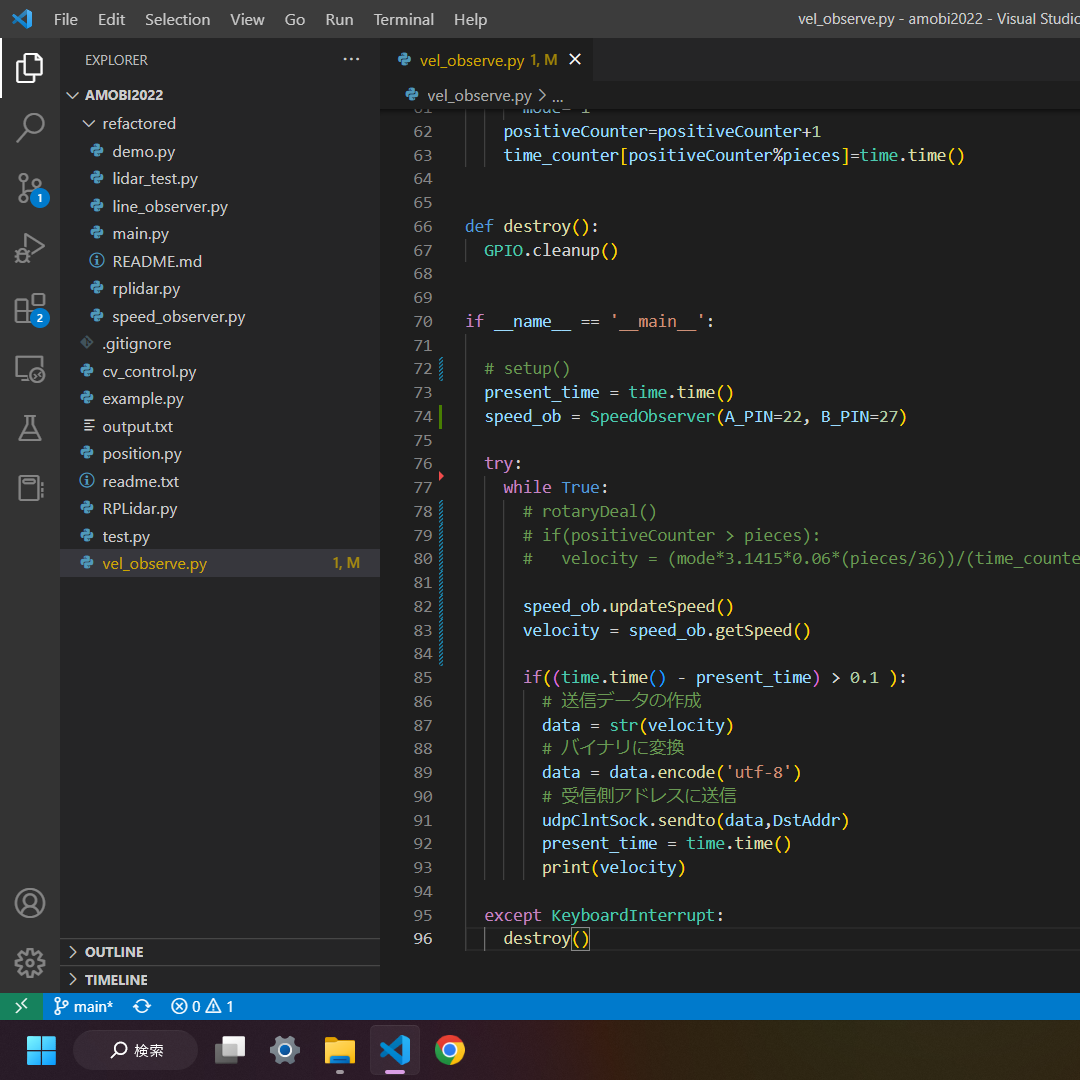
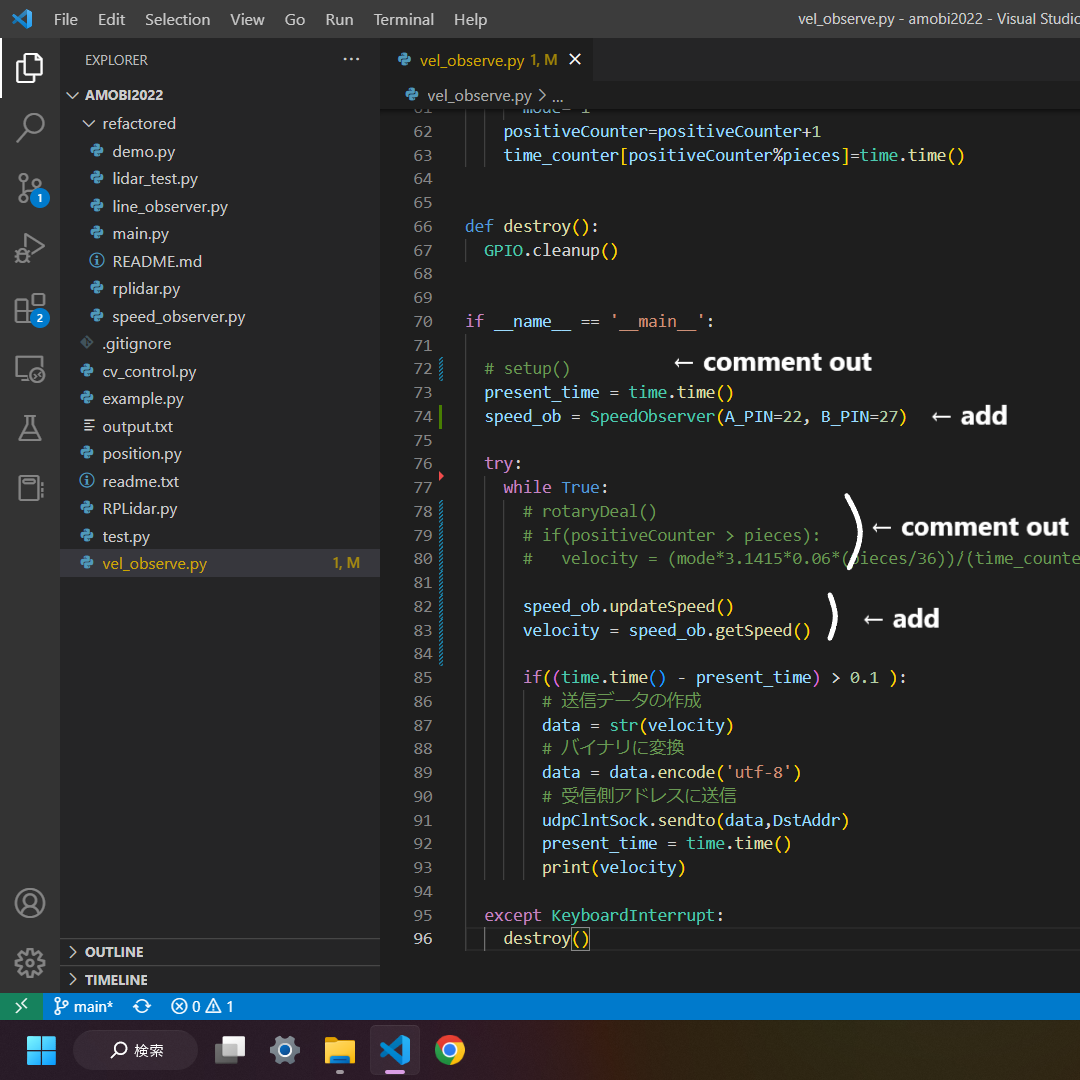
update readme

diff --git a/README.md b/README.md
@@ -1,1 +1,29 @@
 # amobi2022_instructions
+
+## 速度測定プログラムのバグ
+`vel_observe.py` や `observe_velocity.py` を利用する際，ラジコンが走り出さない現象への対処方法．
+
+1. `refactored`の確認
+
+   スクリプトファイルと同じディレクトリに `refactored` ディレクトリがあることを確認．無い場合には[こちら](https://github.com/AdvancedMobilityCourse/amobi2022.git "amobiサンプルプログラムレポジトリ")からクローン・コピー．
+
+2. スクリプトの修正
+
+   以下のように`vel_observe.py` / `observe_velocity.py` を修正．  
+   ![alt text][fig1]  
+   ![alt text][fig2]  
+    ```python
+    from refactored.speed_observer import SpeedObserver
+    ```
+    ```python
+    speed_ob = SpeedObserver(A_PIN=22, B_PIN=27)
+    ```
+    `22`, `27` は接続しているエンコーダのピン番号や変数に変更．
+    ```python
+    speed_ob.updateSpeed()
+    velocity = speed_ob.getSpeed()
+    ```
+
+
+[fig1]: https://github.com/amobi-access/amobi2022_instructions/blob/main/figs/speed_observer-1.png "speed_observer-1"
+[fig2]: https://github.com/amobi-access/amobi2022_instructions/blob/main/figs/speed_observer-2.png "speed_observer-2"
